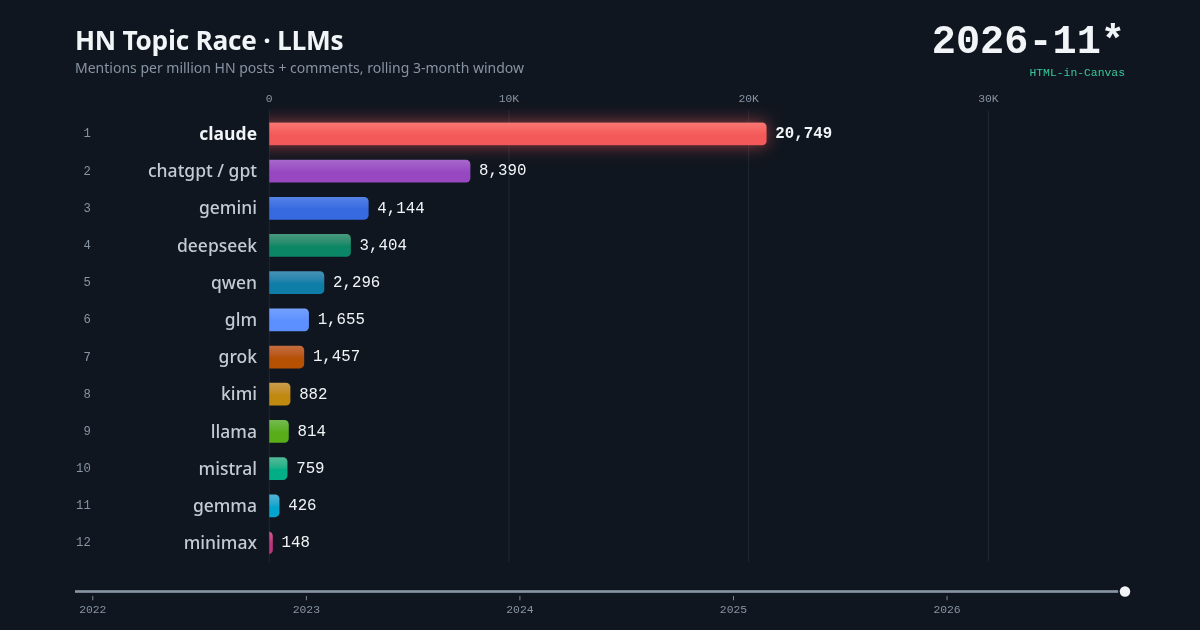
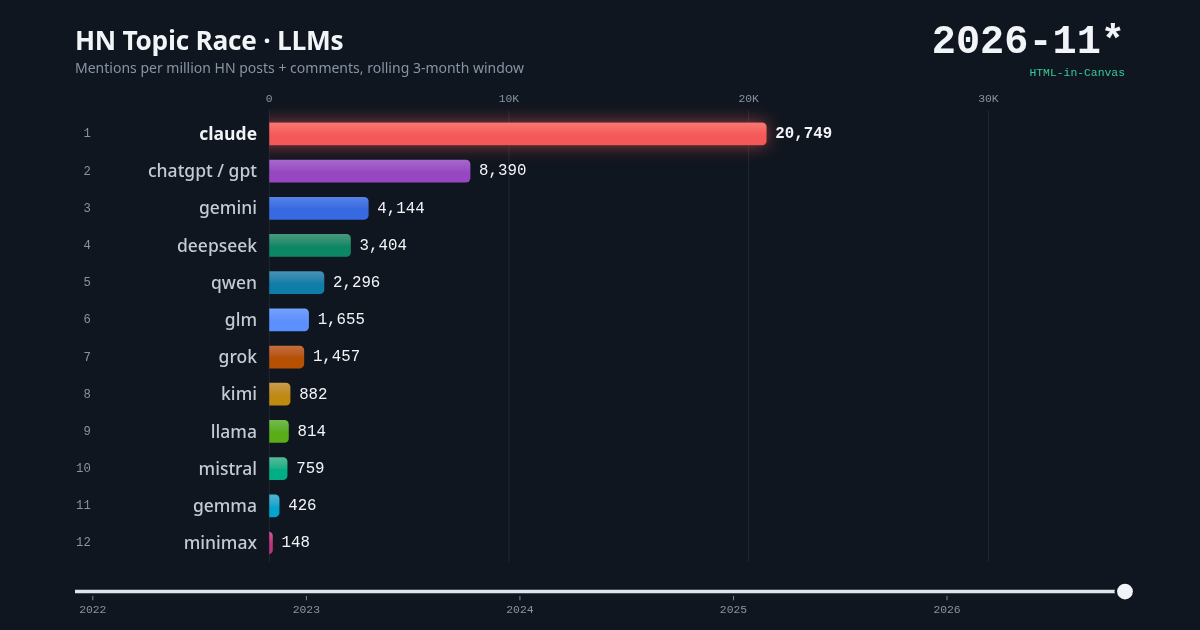
Make the timeline a draggable range input inside the canvas
Pointer, touch and keyboard seeking; dragging pauses playback and
resumes on release. Locked while recording.

Changed region(s): [[0.0617, 0.9349, 0.9558, 0.9651]]

diff --git a/index.html b/index.html
@@ -93,6 +93,17 @@
   @media (hover: hover) { .rows:has(.row:hover) .row:not(:hover) > * { opacity:.42; } }
   canvas.compact .rank { display:none; }
   .tick { display:block; inline-size:80px; text-align:center; font:400 var(--tick-fs)/1.4 var(--mono); color:#8794a3; }
+  /* 時間軸就是原生的 range：左右各多半個拇指寬，拇指中心才會對準刻度 */
+  .seek { --thumb:18px; --track:4px; --at:0; appearance:none; display:block; inline-size:calc(var(--cw) - var(--pad) * 2 + var(--thumb)); block-size:40px;
+          margin:0; padding:0; border:0; border-radius:20px; background:none; cursor:pointer; touch-action:pan-y; }
+  .seek::-webkit-slider-runnable-track { block-size:var(--track);
+          background:linear-gradient(to right, #dfe5eb calc(var(--at) * 100%), #66727f 0) no-repeat center / calc(100% - var(--thumb)) 100%; }
+  .seek::-webkit-slider-thumb { appearance:none; inline-size:var(--thumb); block-size:var(--thumb); margin-block-start:calc((var(--track) - var(--thumb)) / 2);
+          border:0; border-radius:50%; background:#f2f5f8; box-shadow:0 0 0 3px var(--stage); transition:box-shadow 120ms; }
+  .seek:hover:enabled::-webkit-slider-thumb, .seek:active:enabled::-webkit-slider-thumb { box-shadow:0 0 0 3px var(--stage), 0 0 0 9px rgb(255 255 255 / .18); }
+  .seek:focus-visible { outline:none; }             /* 外框畫在拇指上，不壓到年份 */
+  .seek:focus-visible::-webkit-slider-thumb { outline:2px solid #35c99a; outline-offset:3px; }
+  canvas.compact .seek { --thumb:26px; --track:6px; block-size:64px; border-radius:32px; }
   .years { position:relative; inline-size:var(--cw); block-size:24px; font:400 var(--tick-fs)/24px var(--mono); color:#8794a3; }
   .years span { position:absolute; inline-size:60px; margin-inline-start:-30px; text-align:center; }
   .try { padding:12px 18px 14px; font-size:14px; line-height:1.55; color:#a3afbc; background:var(--stage-2); border-top:1px solid var(--stage-line); text-wrap:pretty; }
@@ -217,6 +228,7 @@
     <ul class="rows" id="rows"></ul>
     <div id="ticks" aria-hidden="true"></div>
     <div class="years" id="years" drawable aria-hidden="true"></div>
+    <input class="seek" id="seek" type="range" drawable min="0" step="any" value="0" autocomplete="off" aria-label="Month" data-zh-label="月份">
   </canvas>
   <div class="nope">
     <h2 data-zh="你的瀏覽器還不支援 HTML-in-Canvas">Your browser can’t draw HTML into a canvas yet</h2>
@@ -230,7 +242,7 @@
       <input id="dynAxis" type="checkbox" switch autocomplete="off"><span data-zh="動態縮放">Dynamic axis</span></label>
     <button id="download" type="button" class="push"><svg viewBox="0 0 16 16" aria-hidden="true"><path d="M7.2 1.5h1.6v7l2.6-2.6 1.1 1.1L8 11.5 3.5 7l1.1-1.1 2.6 2.6zM2 13h12v1.6H2z"/></svg><span data-zh="下載影片">Download video</span></button>
   </div>
-  <figcaption class="try"><span data-zh="上面的每個詞、數字和長條都是活的 HTML，畫在同一個 canvas 裡。點一個詞去看當月的 HN 討論、選取數字、按 Ctrl+F 搜尋，再把同一個畫面下載成影片。">Every term, number and bar above is live HTML drawn into one canvas. Click a term to read that month’s HN threads, select a number, press Ctrl+F, then download the same picture as a video.</span>
+  <figcaption class="try"><span data-zh="上面的每個詞、數字和長條都是活的 HTML，畫在同一個 canvas 裡。拖曳時間軸、點一個詞去看當月的 HN 討論、選取數字、按 Ctrl+F 搜尋，再把同一個畫面下載成影片。">Every term, number and bar above is live HTML drawn into one canvas. Drag the timeline, click a term to read that month’s HN threads, select a number, press Ctrl+F, then download the same picture as a video.</span>
     <a href="https://github.com/WICG/html-in-canvas" data-zh="什麼是 HTML-in-Canvas？">What is HTML-in-Canvas?</a></figcaption>
 </figure>
 <p id="status" role="status"></p>
@@ -280,7 +292,7 @@
   <dt>Missing data</dt>
   <dd>failed requests are retried (with extra backoff on 429). If a month still fails, it is dropped from both numerator and denominator, so it can’t create a fake spike or crash. If an entire window has no data, the value is linearly interpolated from its nearest valid neighbors.</dd>
   <dt>HTML-in-Canvas</dt>
-  <dd>the canvas has <code>content="drawable"</code>, and each row, the title, the month and the axis labels are real HTML elements marked <code>drawable</code>. In the <code>paint</code> event, <code>drawElementImage()</code> draws their latest snapshots, next to grid lines drawn with plain Canvas 2D. Clicks, text selection, find-in-page and screen readers keep working at the drawn positions, and <code>captureStream()</code> records the same pixels with their CSS. Plain HTML can’t be recorded this way, and plain canvas text can’t be selected.</dd>
+  <dd>the canvas has <code>content="drawable"</code>, and each row, the title, the month, the axis labels and the timeline (a native <code>&lt;input type="range"&gt;</code>) are real HTML elements marked <code>drawable</code>. In the <code>paint</code> event, <code>drawElementImage()</code> draws their latest snapshots, next to grid lines drawn with plain Canvas 2D. Clicks, text selection, find-in-page and screen readers keep working at the drawn positions, and <code>captureStream()</code> records the same pixels with their CSS. Plain HTML can’t be recorded this way, and plain canvas text can’t be selected.</dd>
   <dt>Axis</dt>
   <dd>by default one fixed scale covers the whole period, so bar lengths compare across months. With “Dynamic axis” on, the scale follows the current leaders so early, smaller numbers stay readable; bars still start at zero, but their lengths then compare only within one month, so across months read the axis and the numbers.</dd>
   <dt>Note</dt>
@@ -297,7 +309,7 @@
   <dt>缺資料的處理</dt>
   <dd>抓取失敗會重試（429 特別退避）；仍失敗的月份，該月會同時從分子與分母移除，因此不會出現假的尖峰或暴跌。若整個窗口都沒有可用資料，會以前後最近的有效值做線性內插。</dd>
   <dt>HTML-in-Canvas</dt>
-  <dd>畫布設了 <code>content="drawable"</code>，每一列、標題、月份和刻度都是標了 <code>drawable</code> 的真實 HTML 元素。在 <code>paint</code> 事件裡用 <code>drawElementImage()</code> 畫出它們最新的快照，格線則照舊用 Canvas 2D 畫。點擊、選字、頁內搜尋、螢幕報讀器都會對準畫出來的位置，<code>captureStream()</code> 也能連同 CSS 效果一起錄下來。一般 HTML 沒辦法這樣錄影，一般 canvas 的字則選不到。</dd>
+  <dd>畫布設了 <code>content="drawable"</code>，每一列、標題、月份、刻度和時間軸（原生的 <code>&lt;input type="range"&gt;</code>）都是標了 <code>drawable</code> 的真實 HTML 元素。在 <code>paint</code> 事件裡用 <code>drawElementImage()</code> 畫出它們最新的快照，格線則照舊用 Canvas 2D 畫。點擊、選字、頁內搜尋、螢幕報讀器都會對準畫出來的位置，<code>captureStream()</code> 也能連同 CSS 效果一起錄下來。一般 HTML 沒辦法這樣錄影，一般 canvas 的字則選不到。</dd>
   <dt>數值軸</dt>
   <dd>預設整段期間用同一個固定比例，不同月份的長條可以直接比長短。開啟「動態縮放」後，比例跟著當時的領先者走，早期的小數字也看得清楚；長條仍從零開始，但長短只能在同一個月內互比，跨月份請看刻度與數字。</dd>
   <dt>注意</dt>
@@ -320,7 +332,7 @@ if (!LIVE) document.documentElement.className = "no-hic";
 // 設計座標：桌面 16:9；手機改直式，字才看得清楚。影片是設計座標的 1.5 倍（桌面 1920×1080）
 const COMPACT = matchMedia("(max-width: 640px)").matches;
 const W = COMPACT ? 640 : 1280, H = COMPACT ? 800 : 720, VIDEO_SCALE = 1.5;
-const INK = { bg: "#10161f", hi: "#f2f5f8", low: "#8794a3", line: "#212b38" };
+const INK = { bg: "#10161f", low: "#8794a3", line: "#212b38" };
 
 // 類別是一組單選鈕（不是 select）
 const category = {
@@ -444,7 +456,7 @@ for (const b of document.querySelectorAll("[data-set-lang]")) b.onclick = () => 
 // 錄影中鎖住語言、數值軸與播放，避免影片中途變樣
 function lockLang(locked) {
   for (const b of document.querySelectorAll("[data-set-lang]")) b.disabled = locked;
-  for (const id of ["dynAxis", "play", "replay"]) $(id).disabled = locked;
+  for (const id of ["dynAxis", "play", "replay", "seek"]) $(id).disabled = locked;
 }
 
 // -------- 類別（已消歧、已稽核）--------
@@ -1121,6 +1133,7 @@ function buildRows() {
     d.month = null;
     return row;
   }));
+  $("seek").max = labels.length - 1;
   $("years").replaceChildren(...labels.flatMap((l, i) => {
     if (!l.slice(5).startsWith("01")) return [];        // 每年 1 月標年份
     const y = el("span", "");
@@ -1163,6 +1176,7 @@ function render(p, snap = false) {
   const k = 1 - Math.exp(-lastDt / 90);
   for (const { d, val } of items) {
     const rank = rankOf.get(d), targetY = TOP + rank * ROW_H;
+    d.targetY = targetY;
     if (snap) d.curY = targetY;
     else d.curY += (targetY - d.curY) * k;
     d.curVal = val;
@@ -1189,8 +1203,12 @@ function render(p, snap = false) {
   setText(sub, COMPACT || !note ? base : `${base} · ${note}`);
   setText(moves, COMPACT ? note : "");
   setText($("cMonth"), month);
+  const seek = $("seek");
+  seek.value = p * (labels.length - 1);
+  seek.style.setProperty("--at", p);
+  if (seek.getAttribute("aria-valuetext") !== month) seek.setAttribute("aria-valuetext", month);
 
-  view = { p, max, ticks: setTicks(axisTicks(max)) };
+  view = { max, ticks: setTicks(axisTicks(max)) };
   canvas.requestPaint();
 }
 
@@ -1202,12 +1220,12 @@ function put(node, x, y, w, h, m = 0) {
 // 快照在這個事件之前剛更新，這裡畫的會出現在同一幀；drawElementImage() 也會把點擊、選取、無障礙的位置同步到畫出來的地方
 if (LIVE) canvas.onpaint = () => {
   if (!view) return;
-  const { p, max, ticks } = view, g = canvas.width / W;
+  const { max, ticks } = view, g = canvas.width / W;
   ctx.reset();
   ctx.fillStyle = INK.bg;
   ctx.fillRect(0, 0, canvas.width, canvas.height);
 
-  // 格線與時間軸是純圖形，照舊用 Canvas 2D 畫，和 HTML 疊在同一張畫布上
+  // 格線與年份刻度是純圖形，照舊用 Canvas 2D 畫，和 HTML 疊在同一張畫布上
   ctx.save();
   ctx.scale(g, g);
   ctx.fillStyle = INK.line;
@@ -1216,15 +1234,9 @@ if (LIVE) canvas.onpaint = () => {
     ctx.fillRect(BAR_X + v / max * BAR_MAX - 0.5, TOP - 6, 1, PLOT_BOTTOM - TOP + 6);
   }
   ctx.globalAlpha = 1;
-  const ty = H - 44, x0 = PAD, x1 = W - PAD, px = x0 + (x1 - x0) * p;
-  ctx.fillRect(x0, ty - 1.5, x1 - x0, 3);
+  const ty = H - 44;
   ctx.fillStyle = INK.low;
-  ctx.fillRect(x0, ty - 1.5, px - x0, 3);
   labels.forEach((l, i) => { if (l.slice(5).startsWith("01")) ctx.fillRect(yearX(i) - 0.5, ty + 5, 1, 5); });
-  ctx.fillStyle = INK.bg;
-  ctx.beginPath(); ctx.arc(px, ty, 8, 0, Math.PI * 2); ctx.fill();
-  ctx.fillStyle = INK.hi;
-  ctx.beginPath(); ctx.arc(px, ty, 6, 0, Math.PI * 2); ctx.fill();
   ctx.restore();
 
   const size = e => [e.offsetWidth, e.offsetHeight];
@@ -1238,6 +1250,8 @@ if (LIVE) canvas.onpaint = () => {
   ctx.globalAlpha = 1;
   put($("years"), 0, ty + 10, W, 24);
   for (const d of [...data].sort((a, b) => a.curY - b.curY)) put(d.row, 0, d.curY, W, ROW_H, 24);
+  const [sw, sh] = size($("seek"));
+  put($("seek"), (W - sw) / 2, ty - sh / 2, sw, sh);          // 最後畫：點擊判定在最上層
 };
 
 // -------- 播放控制 --------
@@ -1285,6 +1299,48 @@ function pause() {
 $("play").onclick = () => (playing ? pause() : play());
 $("replay").onclick = () => { pause(); progress = 0; phase = "run"; render(0, true); play(); };
 $("dynAxis").onchange = () => render(progress);
+
+// -------- 時間軸拖曳 --------
+// 暫停時換月份：長條滑到新名次就停，不必一直重畫
+let gliding = false;
+function glide() {
+  if (matchMedia("(prefers-reduced-motion: reduce)").matches) { render(progress, true); return; }
+  if (gliding) return;
+  gliding = true;
+  const step = () => {
+    if (playing || recording) { gliding = false; return; }
+    lastDt = 16.7;
+    render(progress);
+    if (data.some(d => Math.abs(d.curY - d.targetY) > 0.5)) requestAnimationFrame(step);
+    else { gliding = false; render(progress, true); }
+  };
+  requestAnimationFrame(step);
+}
+function seekTo(i) {
+  pause();
+  progress = Math.min(Math.max(i / (labels.length - 1), 0), 1);
+  phase = "run";
+  glide();
+}
+let resume = false;                       // 播放中拖曳：按住時暫停，放開後接著播
+$("seek").oninput = e => seekTo(+e.target.value);
+$("seek").onpointerdown = e => {
+  if (e.button) return;
+  resume = playing;
+  pause();
+  // 放開的位置可能在元素外，所以聽整個視窗；只聽這一次
+  const end = new AbortController();
+  for (const type of ["pointerup", "pointercancel"])
+    addEventListener(type, () => { end.abort(); if (resume && !recording) play(); resume = false; }, { signal: end.signal });
+};
+// 方向鍵一次一個月、PageUp／PageDown 一年；Home／End 用原生的
+$("seek").onkeydown = e => {
+  const by = { ArrowRight: 1, ArrowUp: 1, ArrowLeft: -1, ArrowDown: -1, PageUp: 12, PageDown: -12 }[e.key];
+  if (!by || e.ctrlKey || e.metaKey || e.altKey) return;
+  e.preventDefault();
+  const at = progress * (labels.length - 1);
+  seekTo(Math.abs(by) === 1 ? (by > 0 ? Math.floor(at + 1e-6) + 1 : Math.ceil(at - 1e-6) - 1) : Math.round(at) + by);
+};
 $("customForm").onsubmit = e => { e.preventDefault(); loadData(); };   // 按鈕與 Enter 共用；輸入法選字的 Enter 由瀏覽器擋掉
 
 // -------- 類別標籤 ↔ 詞欄 --------

diff --git a/README.md b/README.md
@@ -8,7 +8,7 @@ A bar chart race of what Hacker News talks about: mentions per million posts and
 
 **Needs Chrome 157 or later.** Every term, number and bar is live HTML drawn into one `<canvas>` with [HTML-in-Canvas](https://github.com/WICG/html-in-canvas). That gives one picture two things that used to exclude each other:
 
-- It behaves like HTML: click a term to read that month's HN threads, select a number, press Ctrl+F, tab through the rows, use a screen reader.
+- It behaves like HTML: drag the timeline (a native `<input type="range">`), click a term to read that month's HN threads, select a number, press Ctrl+F, tab through the rows, use a screen reader.
 - It behaves like a canvas: `captureStream()` records the same pixels, CSS gradients and glow included, straight to a video.
 
 Other browsers show a short explanation instead of the chart, with links to the [Firefox](https://github.com/mozilla/standards-positions/issues/1076) and [Safari](https://github.com/WebKit/standards-positions/issues/630) discussions. There is deliberately no fallback renderer.
